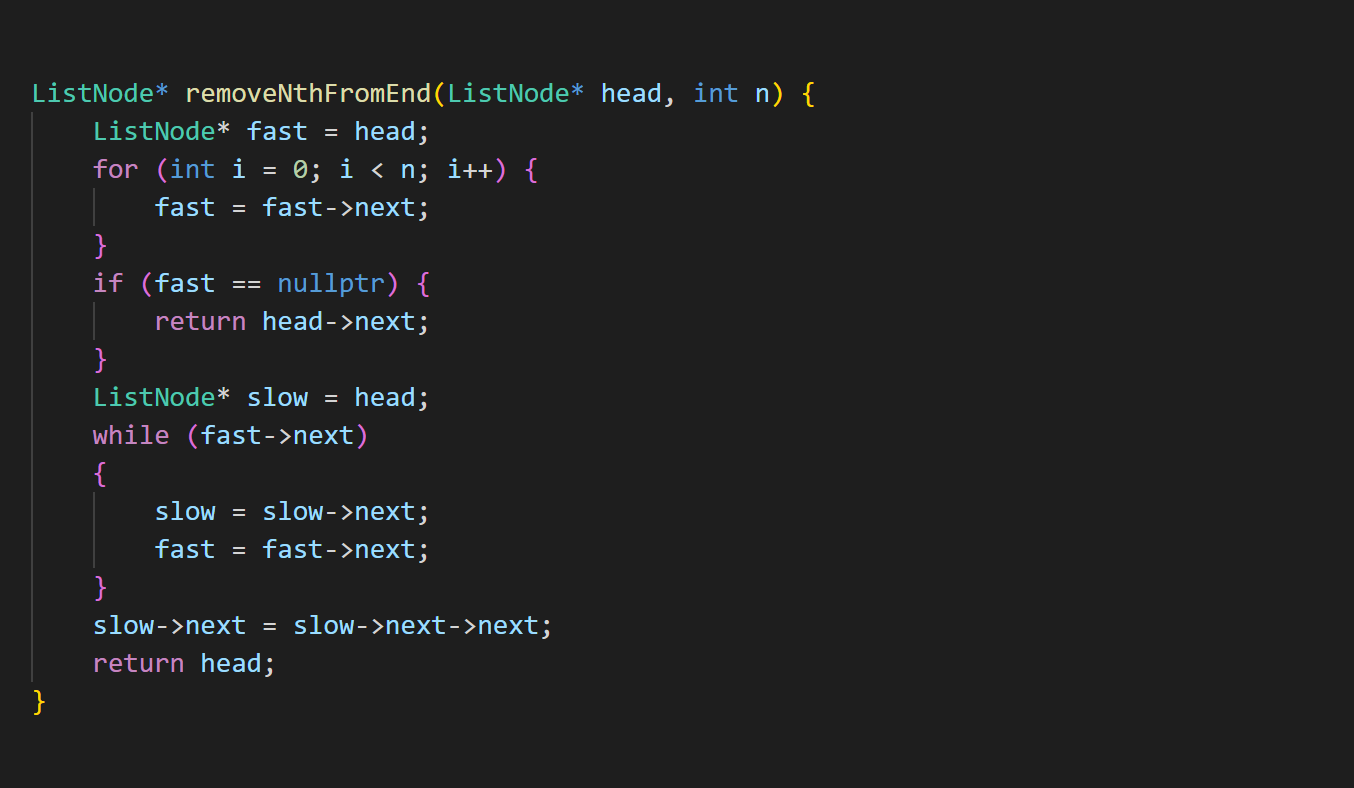
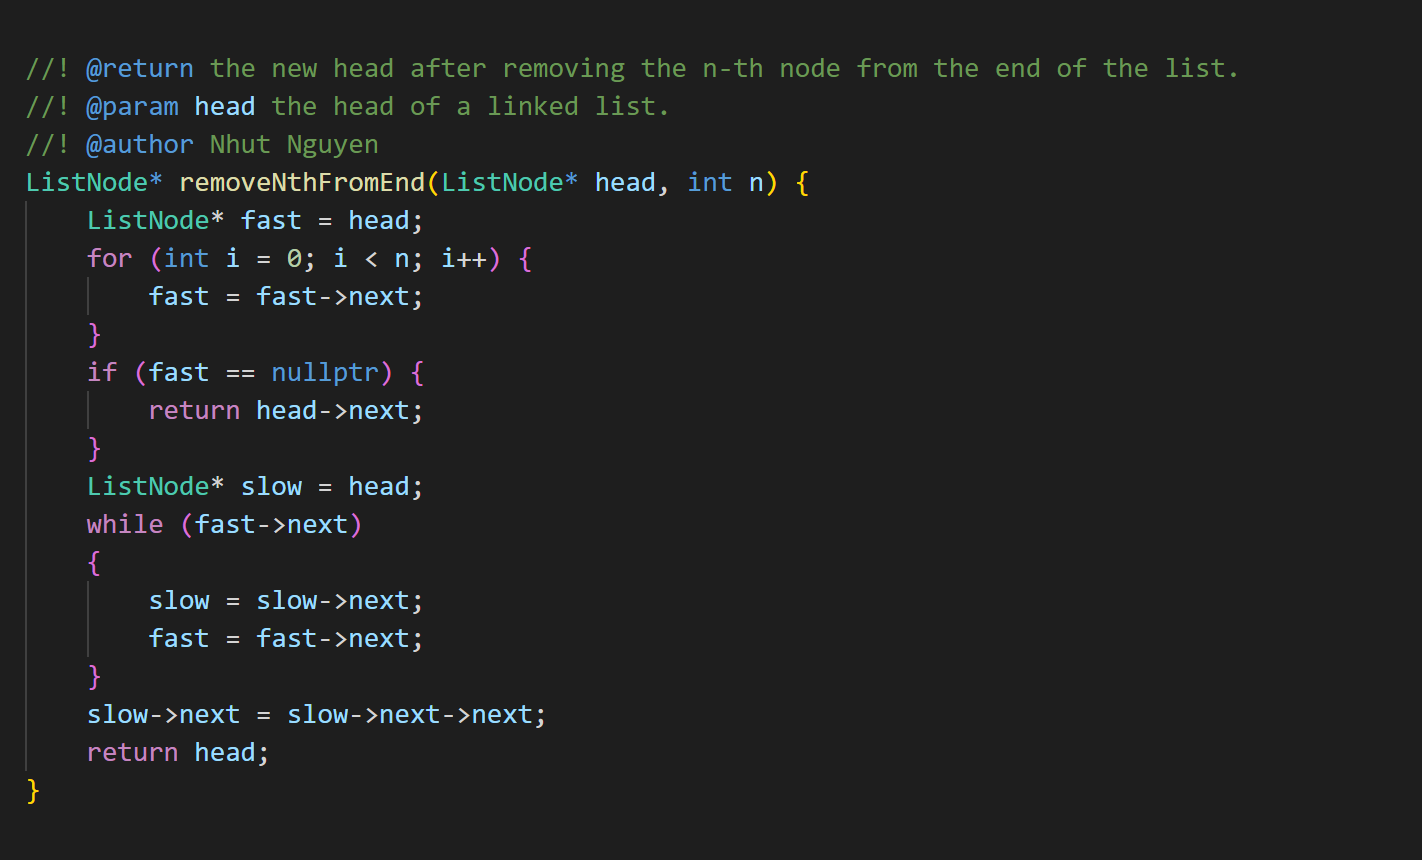
add doxygen

diff --git a/19. Remove Nth Node From End of List/19_Remove_Nth_Node_From_End_of_List.cpp b/19. Remove Nth Node From End of List/19_Remove_Nth_Node_From_End_of_List.cpp
@@ -8,6 +8,10 @@ struct ListNode {
     ListNode(int x, ListNode *next) : val(x), next(next) {}
 };
 using namespace std;
+
+//! @return the new head after removing the n-th node from the end of the list.
+//! @param head the head of a linked list. 
+//! @author Nhut Nguyen
 ListNode* removeNthFromEnd(ListNode* head, int n) {
     ListNode* fast = head;
     for (int i = 0; i < n; i++) {
@@ -25,6 +29,7 @@ ListNode* removeNthFromEnd(ListNode* head, int n) {
     slow->next = slow->next->next;
     return head;
 }
+
 void printList(ListNode *head) {
     ListNode* node = head;
     cout << "[";
